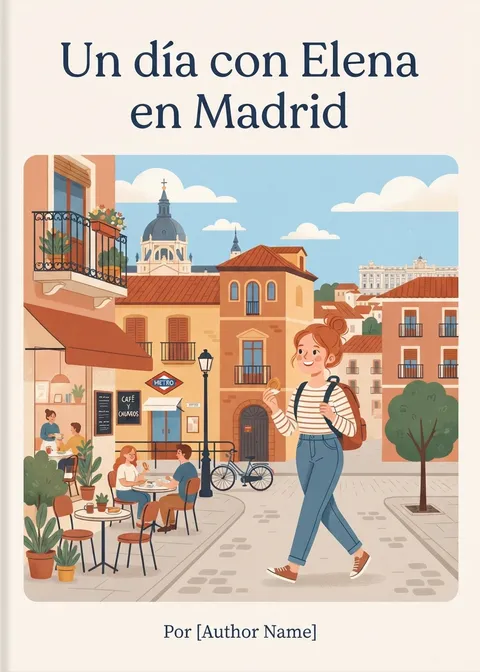
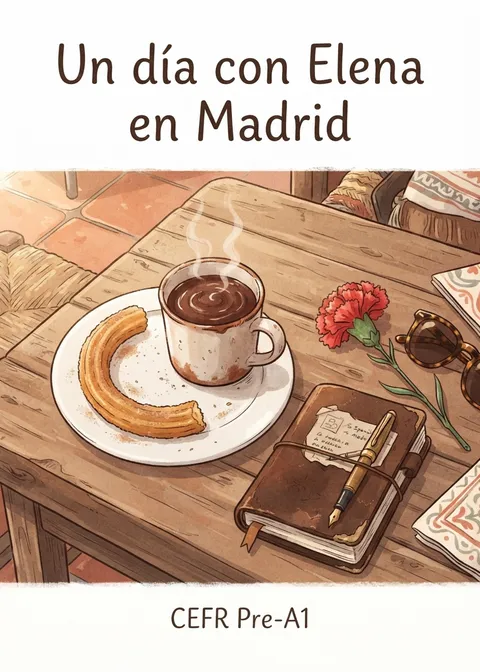
revised cover generation params

diff --git a/scripts/generate-covers.ts b/scripts/generate-covers.ts
@@ -132,7 +132,7 @@ async function main() {
         `Genre: ${story.genre} | CEFR: ${story.cefrLevel} | Language: ${story.language}`,
       );
 
-      // Formulate a robust prompt to enforce a cozy, flat vector illustration, and strictly forbid
+      // Formulate a robust prompt to enforce a cozy, soft, colorful book cover design, and strictly forbid
       // technical diagrams, flowcharts, floating icons, and device mockup frames.
       let sceneDescription = '';
       let visualStyle = '';
@@ -162,92 +162,92 @@ async function main() {
           scene:
             'A mysterious magnifying glass magnifying a clue, a single old key, or a shadow of a person under a streetlamp',
           style:
-            'A suspenseful, high-contrast flat vector illustration. Dark navy blue, charcoal gray, and pale amber accents',
+            'A suspenseful, high-contrast, cozy digital illustration. Dark navy blue, charcoal gray, and warm amber accents with clean outlines and gentle shading',
         },
         scifi: {
           scene:
             'A futuristic spaceship silhouette travelling past a large ringed planet, or a cosmic starry sky',
           style:
-            'A clean retro-futuristic flat vector design. Deep space blacks, cool blues, and vibrant neon purple or cyan accents',
+            'A vibrant, retro-futuristic cozy digital illustration. Deep space blacks, cool blues, and bright neon purple or cyan accents with clean outlines and gentle shading',
         },
         fantasy: {
           scene:
             'A glowing magical book or amulet, a mystical forest pathway, or a castle silhouette against a full moon',
           style:
-            'A whimsical, magical flat vector illustration. Deep emerald greens, rich purples, and glowing golden sparkles',
+            'A whimsical, magical cozy digital illustration. Deep emerald greens, rich purples, and glowing golden sparkles with clean outlines and gentle shading',
         },
         scifi_fantasy: {
           scene:
             'A futuristic city rising above a forest of ancient magical trees, or a glowing crystal engine',
           style:
-            'A blended science-fantasy flat vector illustration. Mystical violet, deep blue, and shimmering gold colors',
+            'A colorful, blended science-fantasy cozy digital illustration. Mystical violet, deep blue, and shimmering gold colors with clean outlines and gentle shading',
         },
         horror: {
           scene:
             'A spooky dark house silhouette on a hill under a full moon, or a single lantern glowing in a foggy wood',
           style:
-            'An eerie, atmospheric flat vector illustration. Dark muted tones, deep crimson red, and stark white highlights',
+            'An eerie, atmospheric cozy digital illustration. Dark muted tones, deep crimson red, and stark white highlights with clean outlines and gentle shading',
         },
         adventure: {
           scene:
             'A backpacker standing on a mountain peak looking out at a winding valley, or a compass on a vintage map',
           style:
-            'An inspiring, bold flat vector design. Warm earthy tones, forest greens, mountain blues, and golden sunset colors',
+            'An inspiring, colorful cozy digital illustration. Warm earthy tones, forest greens, mountain blues, and golden sunset colors with clean outlines and gentle shading',
         },
         romance: {
           scene:
             'Two silhouettes sharing an umbrella in the rain under a streetlamp, or a cozy cafe table with two cups',
           style:
-            'A warm, romantic flat vector illustration. Soft rose pink, warm peach, gentle pastel purples, and soft lighting',
+            'A warm, romantic cozy digital illustration. Soft rose pink, warm peach, gentle pastel purples, and soft lighting with clean outlines and gentle shading',
         },
         sliceoflife: {
           scene:
             'A cozy window overlooking a garden, a steaming coffee mug on a table, or a bicycle parked next to a bakery',
           style:
-            'A cozy, inviting flat vector illustration. Warm pastel colors, soft earth tones, and gentle lighting',
+            'A cozy, warm, and inviting soft digital illustration (lofi study vibe, warm pastel colors, soft earth tones, clean outlines, and gentle shading)',
         },
         folklore: {
           scene:
             'A legendary mythical creature or creature silhouette in a mystical natural setting, or a glowing ancient stone',
           style:
-            'A traditional, mythic flat vector design. Deep forest greens, rich browns, and amber tones',
+            'A traditional, mythic cozy  digital illustration. Deep forest greens, rich browns, and amber tones with clean outlines and gentle shading',
         },
         philosophy: {
           scene:
             'A single green leaf floating on a ripple of water, a quiet stone pathway, or a simple candle flame',
           style:
-            'A serene, meditative flat vector design. Soft grays, calm blues, and warm cream colors',
+            'A serene, meditative cozy  digital illustration. Soft grays, calm blues, and warm cream colors with clean outlines and gentle shading',
         },
         historical: {
           scene:
             'An old quill pen on parchment paper, a vintage carriage, or a historical town square silhouette',
           style:
-            'A nostalgic, classic flat vector design. Sepia tones, deep mahogany, and antique gold colors',
+            'A nostalgic, classic cozy  digital illustration. Sepia tones, deep mahogany, and antique gold colors with clean outlines and gentle shading',
         },
         comedy: {
           scene:
             'A quirky, funny cartoonish animal, a smiling cloud, or an open suitcase with funny objects spilling out',
           style:
-            'A lighthearted, playful flat vector illustration. Bright cheerful yellow, sky blue, and vibrant orange colors',
+            'A lighthearted, playful, and colorful cozy  digital illustration. Bright cheerful yellow, sky blue, and vibrant orange colors with clean outlines and gentle shading',
         },
         fairy: {
           scene:
             'A whimsical fairy wand, a tiny house in a mushroom, or a sparkling carriage',
           style:
-            'A whimsical, charming flat vector illustration. Soft lavender, powder blue, and magic gold dust accents',
+            'A whimsical, colorful cozy  digital illustration. Soft lavender, powder blue, and magic gold dust accents with clean outlines and gentle shading',
         },
         nonfiction: {
           scene:
             'A clean stack of books, a lightbulb representing an idea, or a globe',
           style:
-            'A clean, modern, professional flat vector design. Crisp white, teal, dark navy, and gray tones',
+            'A clean, colorful cozy  digital illustration. Crisp white, teal, dark navy, and gray tones with clean outlines and gentle shading',
         },
       };
 
       const fallback = fallbackStyles[story.genre] || {
         scene: `A simple, serene scene symbolizing the theme of the book`,
         style:
-          'A cozy, warm, and inviting soft vector illustration. Pastel colors, clean lines, and gentle shading',
+          'A cozy, warm, and inviting soft  digital illustration. Pastel colors, clean outlines, and gentle shading',
       };
 
       try {
@@ -289,8 +289,8 @@ ${promptNotes}
 ${outlineText}
 
 Please generate:
-1. A concise, specific scene description (sceneDescription) for a minimalist flat vector illustration representing the book's unique story. Focus on a single key character, symbolic object, or setting from the story.
-2. A visual style and color palette (visualStyle) that matches the genre and mood of the book.`;
+1. A concise, specific scene description (sceneDescription) for a detailed, colorful, soft  digital illustration representing the book's unique story. Focus on a single key character, symbolic object, or setting from the story.
+2. A visual style and color palette (visualStyle) that matches the genre and mood of the book, using a cozy, warm, and inviting soft  digital illustration aesthetic (lofi study vibe, rich colors, clean outlines, and gentle shading).`;
 
         const responseText = await handleModelCall({
           model: textModel,
@@ -318,11 +318,12 @@ Please generate:
         visualStyle = fallback.style;
       }
 
-      const prompt = `A professional, clean, minimalist flat vector book cover design.
+      const cefrLabel = `CEFR ${story.cefrLevel || 'A1'}`;
+      const prompt = `A professional, clean, cozy  book cover design.
 Title text: The image for the book cover must clearly feature the title "${story.title}" written in a clean, legible, and elegant font at the top or center, spelled correctly.
-Author text: The image must clearly feature the author name "CEFR Stories" written in a smaller, clean, legible, and elegant font near the bottom, spelled correctly.
-Visual style: ${visualStyle}. Flat 2D graphic from edge to edge.
-Subject: ${sceneDescription}. The image must be a flat 2D graphic with no physical borders. Do not include any other text, random letters, or other author names.`;
+Author text: The image must clearly feature the text "${cefrLabel}" written in a smaller, clean, legible, and elegant font near the bottom, spelled correctly.
+Visual style: ${visualStyle}. Cozy, warm, and inviting soft  digital illustration style (lofi study vibe, rich colors, clean outlines, and gentle shading) from edge to edge.
+Subject: ${sceneDescription}. The image must be a soft  illustration with no physical borders. Do not include any other text, random letters, or other author names.`;
 
       console.log(`Prompt: "${prompt}"`);
       console.log(`Model: ${modelId}`);

diff --git a/src/server/routes/cover.ts b/src/server/routes/cover.ts
@@ -90,92 +90,92 @@ router.post('/generate', async (req, res) => {
         scene:
           'A mysterious magnifying glass magnifying a clue, a single old key, or a shadow of a person under a streetlamp',
         style:
-          'A suspenseful, high-contrast flat vector illustration. Dark navy blue, charcoal gray, and pale amber accents',
+          'A suspenseful, high-contrast, cozy hand-drawn digital illustration. Dark navy blue, charcoal gray, and warm amber accents with clean outlines and gentle shading',
       },
       scifi: {
         scene:
           'A futuristic spaceship silhouette travelling past a large ringed planet, or a cosmic starry sky',
         style:
-          'A clean retro-futuristic flat vector design. Deep space blacks, cool blues, and vibrant neon purple or cyan accents',
+          'A vibrant, retro-futuristic cozy hand-drawn digital illustration. Deep space blacks, cool blues, and bright neon purple or cyan accents with clean outlines and gentle shading',
       },
       fantasy: {
         scene:
           'A glowing magical book or amulet, a mystical forest pathway, or a castle silhouette against a full moon',
         style:
-          'A whimsical, magical flat vector illustration. Deep emerald greens, rich purples, and glowing golden sparkles',
+          'A whimsical, magical cozy hand-drawn digital illustration. Deep emerald greens, rich purples, and glowing golden sparkles with clean outlines and gentle shading',
       },
       scifi_fantasy: {
         scene:
           'A futuristic city rising above a forest of ancient magical trees, or a glowing crystal engine',
         style:
-          'A blended science-fantasy flat vector illustration. Mystical violet, deep blue, and shimmering gold colors',
+          'A colorful, blended science-fantasy cozy hand-drawn digital illustration. Mystical violet, deep blue, and shimmering gold colors with clean outlines and gentle shading',
       },
       horror: {
         scene:
           'A spooky dark house silhouette on a hill under a full moon, or a single lantern glowing in a foggy wood',
         style:
-          'An eerie, atmospheric flat vector illustration. Dark muted tones, deep crimson red, and stark white highlights',
+          'An eerie, atmospheric cozy hand-drawn digital illustration. Dark muted tones, deep crimson red, and stark white highlights with clean outlines and gentle shading',
       },
       adventure: {
         scene:
           'A backpacker standing on a mountain peak looking out at a winding valley, or a compass on a vintage map',
         style:
-          'An inspiring, bold flat vector design. Warm earthy tones, forest greens, mountain blues, and golden sunset colors',
+          'An inspiring, colorful cozy hand-drawn digital illustration. Warm earthy tones, forest greens, mountain blues, and golden sunset colors with clean outlines and gentle shading',
       },
       romance: {
         scene:
           'Two silhouettes sharing an umbrella in the rain under a streetlamp, or a cozy cafe table with two cups',
         style:
-          'A warm, romantic flat vector illustration. Soft rose pink, warm peach, gentle pastel purples, and soft lighting',
+          'A warm, romantic cozy hand-drawn digital illustration. Soft rose pink, warm peach, gentle pastel purples, and soft lighting with clean outlines and gentle shading',
       },
       sliceoflife: {
         scene:
           'A cozy window overlooking a garden, a steaming coffee mug on a table, or a bicycle parked next to a bakery',
         style:
-          'A cozy, inviting flat vector illustration. Warm pastel colors, soft earth tones, and gentle lighting',
+          'A cozy, warm, and inviting soft hand-drawn digital illustration (lofi study vibe, warm pastel colors, soft earth tones, clean outlines, and gentle shading)',
       },
       folklore: {
         scene:
           'A legendary mythical creature or creature silhouette in a mystical natural setting, or a glowing ancient stone',
         style:
-          'A traditional, mythic flat vector design. Deep forest greens, rich browns, and amber tones',
+          'A traditional, mythic cozy hand-drawn digital illustration. Deep forest greens, rich browns, and amber tones with clean outlines and gentle shading',
       },
       philosophy: {
         scene:
           'A single green leaf floating on a ripple of water, a quiet stone pathway, or a simple candle flame',
         style:
-          'A serene, meditative flat vector design. Soft grays, calm blues, and warm cream colors',
+          'A serene, meditative cozy hand-drawn digital illustration. Soft grays, calm blues, and warm cream colors with clean outlines and gentle shading',
       },
       historical: {
         scene:
           'An old quill pen on parchment paper, a vintage carriage, or a historical town square silhouette',
         style:
-          'A nostalgic, classic flat vector design. Sepia tones, deep mahogany, and antique gold colors',
+          'A nostalgic, classic cozy hand-drawn digital illustration. Sepia tones, deep mahogany, and antique gold colors with clean outlines and gentle shading',
       },
       comedy: {
         scene:
           'A quirky, funny cartoonish animal, a smiling cloud, or an open suitcase with funny objects spilling out',
         style:
-          'A lighthearted, playful flat vector illustration. Bright cheerful yellow, sky blue, and vibrant orange colors',
+          'A lighthearted, playful, and colorful cozy hand-drawn digital illustration. Bright cheerful yellow, sky blue, and vibrant orange colors with clean outlines and gentle shading',
       },
       fairy: {
         scene:
           'A whimsical fairy wand, a tiny house in a mushroom, or a sparkling carriage',
         style:
-          'A whimsical, charming flat vector illustration. Soft lavender, powder blue, and magic gold dust accents',
+          'A whimsical, colorful cozy hand-drawn digital illustration. Soft lavender, powder blue, and magic gold dust accents with clean outlines and gentle shading',
       },
       nonfiction: {
         scene:
           'A clean stack of books, a lightbulb representing an idea, or a globe',
         style:
-          'A clean, modern, professional flat vector design. Crisp white, teal, dark navy, and gray tones',
+          'A clean, colorful cozy hand-drawn digital illustration. Crisp white, teal, dark navy, and gray tones with clean outlines and gentle shading',
       },
     };
 
     const fallback = fallbackStyles[story.genre] || {
       scene: `A simple, serene scene symbolizing the theme of the book`,
       style:
-        'A cozy, warm, and inviting soft vector illustration. Pastel colors, clean lines, and gentle shading',
+        'A cozy, warm, and inviting soft hand-drawn digital illustration. Pastel colors, clean outlines, and gentle shading',
     };
 
     try {
@@ -217,8 +217,8 @@ ${promptNotes}
 ${outlineText}
 
 Please generate:
-1. A concise, specific scene description (sceneDescription) for a minimalist flat vector illustration representing the book's unique story. Focus on a single key character, symbolic object, or setting from the story.
-2. A visual style and color palette (visualStyle) that matches the genre and mood of the book.`;
+1. A concise, specific scene description (sceneDescription) for a detailed, colorful, soft hand-drawn digital illustration representing the book's unique story. Focus on a single key character, symbolic object, or setting from the story.
+2. A visual style and color palette (visualStyle) that matches the genre and mood of the book, using a cozy, warm, and inviting soft hand-drawn digital illustration aesthetic (lofi study vibe, rich colors, clean outlines, and gentle shading).`;
 
       const responseText = await handleModelCall({
         model: textModel,
@@ -246,11 +246,12 @@ Style: ${visualStyle}`);
       visualStyle = fallback.style;
     }
 
-    const prompt = `A professional, clean, minimalist flat vector book cover design.
+    const cefrLabel = `CEFR ${story.cefrLevel || 'A1'}`;
+    const prompt = `A professional, clean, cozy hand-drawn book cover design.
 Title text: The image for the book cover must clearly feature the title "${story.title}" written in a clean, legible, and elegant font at the top or center, spelled correctly.
-Author text: The image must clearly feature the author name "CEFR Stories" written in a smaller, clean, legible, and elegant font near the bottom, spelled correctly.
-Visual style: ${visualStyle}. Flat 2D graphic from edge to edge.
-Subject: ${sceneDescription}. The image must be a flat 2D graphic with no physical borders. Do not include any other text, random letters, or other author names.`;
+Author text: The image must clearly feature the text "${cefrLabel}" written in a smaller, clean, legible, and elegant font near the bottom, spelled correctly.
+Visual style: ${visualStyle}. Cozy, warm, and inviting soft hand-drawn digital illustration style (lofi study vibe, rich colors, clean outlines, and gentle shading) from edge to edge.
+Subject: ${sceneDescription}. The image must be a soft hand-drawn illustration with no physical borders. Do not include any other text, random letters, or other author names.`;
 
     const requestBody: any = {
       model: modelId,

diff --git a/scratch/find-story.ts b/scratch/find-story.ts
@@ -1,0 +1,37 @@
+import PocketBaseClass from 'pocketbase';
+import { config } from 'dotenv';
+import { resolve } from 'path';
+
+const PocketBase = (PocketBaseClass as any).default || PocketBaseClass;
+
+config({ path: resolve(process.cwd(), '.env') });
+config({ path: resolve(process.cwd(), '.env.local') });
+
+const url = process.env.VITE_POCKETBASE_URL;
+const adminEmail = process.env.POCKETBASE_ADMIN_EMAIL;
+const adminPassword = process.env.POCKETBASE_ADMIN_PASSWORD;
+
+if (!url || !adminEmail || !adminPassword) {
+  console.error('Missing env vars.');
+  process.exit(1);
+}
+
+async function main() {
+  const pb = new PocketBase(url);
+  if (typeof (pb as any).admins !== 'undefined') {
+    await (pb as any).admins.authWithPassword(adminEmail, adminPassword);
+  } else {
+    await pb.collection('_superusers').authWithPassword(adminEmail, adminPassword);
+  }
+
+  const stories = await pb.collection('stories').getFullList({
+    filter: 'title ~ "Elena"',
+  });
+
+  console.log('Matching stories:');
+  for (const s of stories) {
+    console.log(`ID: ${s.id} | Title: ${s.title} | Genre: ${s.genre}`);
+  }
+}
+
+main();
